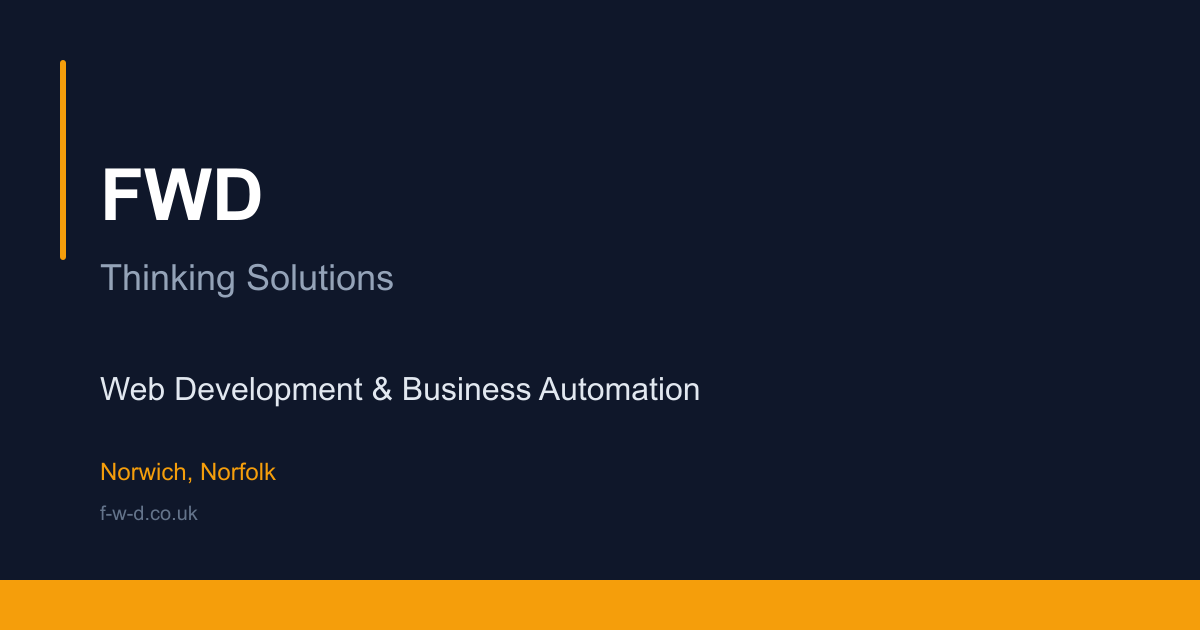
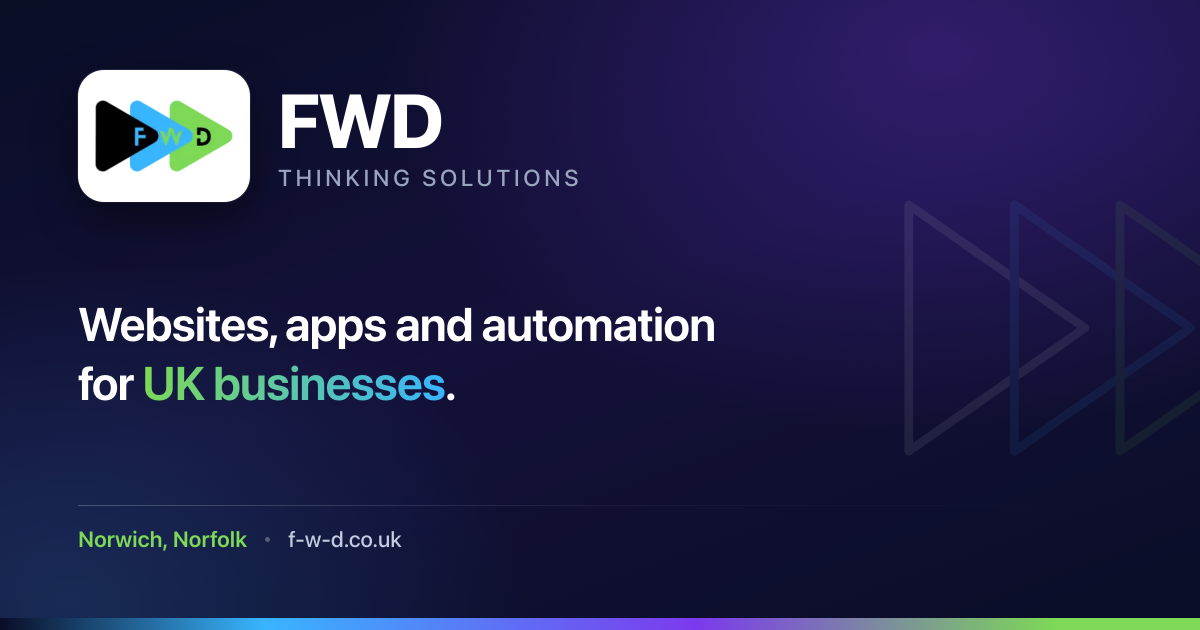
Rebuild the social share image on brand
The old og-image.png used orange on navy, which appears nowhere on the
site, and had no logo on it. Replace it with the deep navy and purple of
the hero gradient, the actual FWD mark on a white tile, and the logo's
own blue and green as the accents.

Also make og:image and twitter:image absolute URLs. A relative path is
resolved inconsistently by scrapers, so LinkedIn and X could end up
showing no image at all. Dimensions and alt text are declared only for
the default image, since blog posts pass their own hero.

Keep the generator in scripts/og-image so the image can be regenerated
rather than hand-edited: node scripts/og-image/render.mjs

diff --git a/fwd-site/scripts/og-image/template.html b/fwd-site/scripts/og-image/template.html
@@ -1,0 +1,118 @@
+<!doctype html>
+<html>
+<head><meta charset="utf-8">
+<style>
+  * { margin:0; padding:0; box-sizing:border-box; }
+  html,body { width:1200px; height:630px; }
+  body {
+    font-family: -apple-system, "SF Pro Display", system-ui, "Segoe UI", Roboto, Helvetica, Arial, sans-serif;
+    background:#0a0e27;
+    position:relative;
+    overflow:hidden;
+    -webkit-font-smoothing: antialiased;
+  }
+  .bg {
+    position:absolute; inset:0;
+    background:
+      radial-gradient(900px 620px at 78% 8%, rgba(124,58,237,0.30) 0%, rgba(124,58,237,0) 62%),
+      radial-gradient(700px 520px at 6% 96%, rgba(57,181,255,0.16) 0%, rgba(57,181,255,0) 65%),
+      linear-gradient(160deg, #0a0e27 0%, #14113a 48%, #0a0e27 100%);
+  }
+  /* faint chevron watermark, right side */
+  .mark-wm {
+    position:absolute; right:-96px; top:52%; transform:translateY(-50%) scale(0.88);
+    transform-origin:right center;
+    opacity:0.075;
+  }
+  .frame {
+    position:absolute; inset:0;
+    padding:70px 78px 78px;
+    display:flex; flex-direction:column; justify-content:space-between;
+  }
+  /* ---- lockup ---- */
+  .lockup { display:flex; align-items:center; gap:28px; }
+  .tile {
+    width:172px; height:132px; flex:0 0 172px;
+    background:#ffffff;
+    border-radius:26px;
+    display:flex; align-items:center; justify-content:center;
+    box-shadow: 0 18px 44px rgba(0,0,0,0.45), 0 0 0 1px rgba(255,255,255,0.10);
+  }
+  .tile img { width:138px; height:auto; display:block; }
+  .word { display:flex; flex-direction:column; gap:6px; }
+  .word .fwd {
+    font-size:76px; font-weight:800; color:#ffffff;
+    letter-spacing:-0.03em; line-height:1;
+  }
+  .word .sub {
+    font-size:23px; font-weight:500; color:#9aa4bf;
+    letter-spacing:0.16em; text-transform:uppercase;
+  }
+  /* ---- headline ---- */
+  .headline {
+    font-size:47px; font-weight:650; color:#ffffff;
+    line-height:1.24; letter-spacing:-0.022em;
+    max-width:830px;
+  }
+  .headline .hl {
+    background:linear-gradient(95deg, #7DD956 0%, #39B5FF 100%);
+    -webkit-background-clip:text; background-clip:text;
+    -webkit-text-fill-color:transparent;
+  }
+  /* ---- footer ---- */
+  .foot { display:flex; flex-direction:column; gap:20px; }
+  .rule {
+    height:1px; width:100%;
+    background:linear-gradient(90deg, rgba(255,255,255,0.22) 0%, rgba(255,255,255,0.04) 55%, rgba(255,255,255,0) 100%);
+  }
+  .meta { display:flex; align-items:center; gap:18px; }
+  .meta .place {
+    font-size:22px; font-weight:600; color:#7DD956; letter-spacing:0.005em;
+  }
+  .meta .dot { width:5px; height:5px; border-radius:50%; background:rgba(255,255,255,0.28); }
+  .meta .url { font-size:22px; font-weight:500; color:#c3cbe0; }
+  /* ---- accent bar ---- */
+  .bar {
+    position:absolute; left:0; right:0; bottom:0; height:12px;
+    background:linear-gradient(90deg, #0a0e27 0%, #39B5FF 22%, #7c3aed 58%, #7DD956 88%, #7DD956 100%);
+  }
+</style>
+</head>
+<body>
+  <div class="bg"></div>
+
+  <svg class="mark-wm" width="560" height="420" viewBox="0 0 560 420" fill="none">
+    <g stroke-width="10" fill="none">
+      <path d="M120 70 L320 210 L120 350 Z" stroke="#ffffff" stroke-linejoin="round"/>
+      <path d="M240 70 L440 210 L240 350 Z" stroke="#39B5FF" stroke-linejoin="round"/>
+      <path d="M360 70 L560 210 L360 350 Z" stroke="#7DD956" stroke-linejoin="round"/>
+    </g>
+  </svg>
+
+  <div class="frame">
+    <div class="lockup">
+      <div class="tile"><img src="fwd-mark.png" alt=""></div>
+      <div class="word">
+        <div class="fwd">FWD</div>
+        <div class="sub">Thinking Solutions</div>
+      </div>
+    </div>
+
+    <div class="headline">
+      Websites, apps and automation<br>
+      for <span class="hl">UK businesses</span>.
+    </div>
+
+    <div class="foot">
+      <div class="rule"></div>
+      <div class="meta">
+        <span class="place">Norwich, Norfolk</span>
+        <span class="dot"></span>
+        <span class="url">f-w-d.co.uk</span>
+      </div>
+    </div>
+  </div>
+
+  <div class="bar"></div>
+</body>
+</html>
